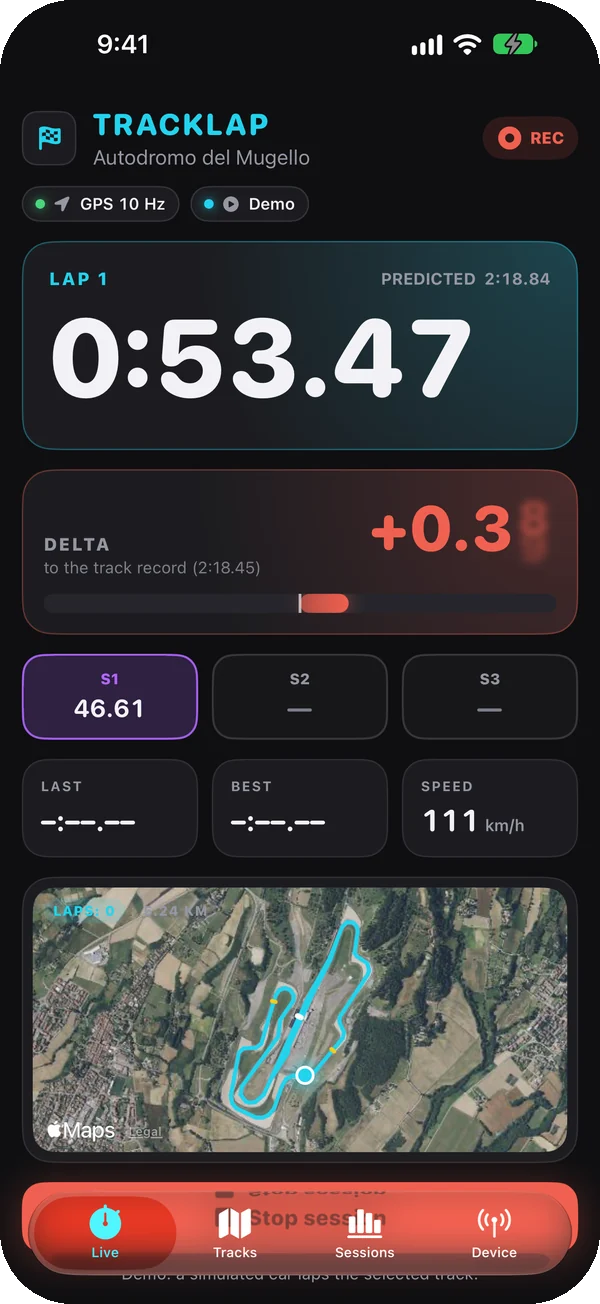
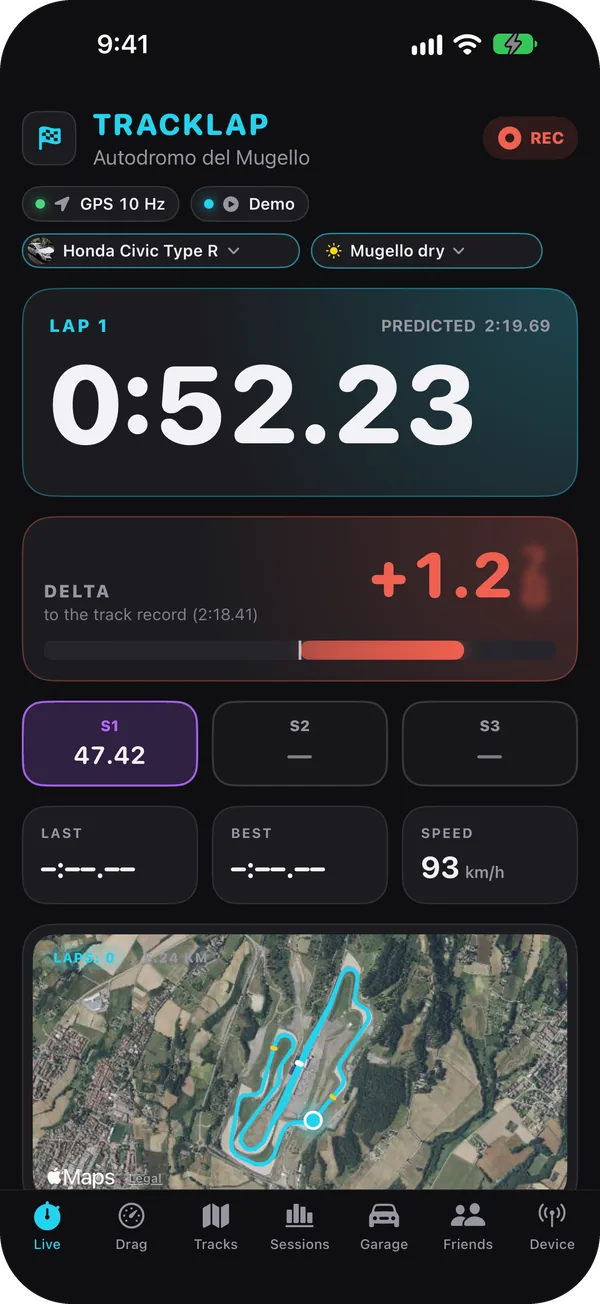
README: motorcycles and scooters, shared sessions, notifications, Lite and Android; every screenshot anew

diff --git a/tools/readme-shots.py b/tools/readme-shots.py
@@ -1,0 +1,50 @@
+"""The README's screenshots from the ones the Screenshots workflow makes.
+
+    python tools/readme-shots.py <folder with the workflow's shots>
+
+Each one goes to docs/readme as a 600 px wide WebP with the corners of the phone's screen rounded
+off, under the name the READMEs use.
+"""
+import sys
+from pathlib import Path
+
+from PIL import Image, ImageDraw
+
+WIDTH = 600
+RADIUS = 72
+# The workflow's name -> the README's.
+NAMES = {
+    "live": "live", "session": "session", "analysis": "analysis", "editor": "editor",
+    "challenge": "challenge", "group": "group", "share": "share",
+    "drag": "drag", "dragRun": "drag-run",
+    "garage": "garage", "car": "car", "setup": "setup",
+    "livemotorcycle": "moto-live", "leanmotorcycle": "moto-lean",
+}
+
+
+def convert(src: Path, dst: Path) -> None:
+    im = Image.open(src).convert("RGB")
+    im = im.resize((WIDTH, round(im.height * WIDTH / im.width)), Image.LANCZOS)
+    # The mask four times as big, then down: smooth corners.
+    big = Image.new("L", (im.width * 4, im.height * 4), 0)
+    ImageDraw.Draw(big).rounded_rectangle((0, 0, big.width - 1, big.height - 1), RADIUS * 4, fill=255)
+    im.putalpha(big.resize(im.size, Image.LANCZOS))
+    im.save(dst, "WEBP", quality=82, method=6)
+
+
+def main() -> None:
+    shots = Path(sys.argv[1])
+    out = Path(__file__).resolve().parent.parent / "docs" / "readme"
+    for lang in ("it", "en"):
+        for theirs, ours in NAMES.items():
+            src = shots / f"{lang}-{theirs}.png"
+            if not src.exists():
+                print("missing", src.name)
+                continue
+            dst = out / f"{lang}-{ours}.webp"
+            convert(src, dst)
+            print(dst.name, dst.stat().st_size // 1024, "KB")
+
+
+if __name__ == "__main__":
+    main()

diff --git a/README.en.md b/README.en.md
@@ -83,6 +83,11 @@ In Italian, English, Spanish, French, German and Portuguese, following the iPhon
 - **Online leaderboards**: with *Publish my best laps* on, the best lap of every session goes to the
   leaderboard of its track, recognised by the start line; the ESP32 (10 Hz) and the iPhone (1 Hz)
   have separate boards, and Demo laps never go in.
+- **Shared sessions**: in Sessions, *Sharing* shows your sessions to everyone, to friends only or
+  to nobody, apart from who sees the garage. They see the track, the day, the vehicle and every lap
+  time; never traces or positions.
+- **Notifications**: you get one when a friend accepts your invitation, and when a friend improves
+  their record on a track, once at the end of their session, saying so if they passed you.
 
 <table>
   <tr>
@@ -168,6 +173,35 @@ and leaderboard time remembers the car it was set with.
 
 <sub>Car photos from Wikimedia Commons, CC0: [list](screenshots/garage/CREDITS.md).</sub>
 
+## Motorcycles and scooters
+
+A vehicle in the garage is a car, a motorcycle or a scooter; without a garage you pick it in
+Device, under *What you ride or drive*. On two wheels TrackLap shows the **lean angle**:
+
+- In **Live** a dial with the lean now, the side it is on, and the furthest lean to the left and to
+  the right in the session.
+- In the **analysis** a chart of the lean along the lap with the reference lap, the lean at the
+  cursor, the furthest to each side and that of every lap.
+- A **setup** has spring preload, sag and gearing instead of camber, toe, anti-roll bars and wings.
+- Leaderboards and friends' laps say what kind of vehicle set the time.
+
+The lean is worked out from the GPS, from the speed and how fast the heading turns, also with the
+boards that have an accelerometer: that one leans with the bike and feels no lateral g in a corner.
+It is the theoretical angle, without the width of the tyres and the rider moving on the bike.
+
+<table>
+  <tr>
+    <td width="33%"><img src="docs/readme/en-moto-live.webp" alt="Live on a motorcycle, with the lean dial"></td>
+    <td width="33%"><img src="docs/readme/en-moto-lean.webp" alt="The chart of the lean along a lap"></td>
+    <td></td>
+  </tr>
+  <tr>
+    <td align="center"><sub>Live on two wheels</sub></td>
+    <td align="center"><sub>The lean along the lap</sub></td>
+    <td></td>
+  </tr>
+</table>
+
 ## The hardware
 
 <p align="center">
@@ -196,6 +230,13 @@ lap, green when faster than the session's average, red when slower.
   [Feather](https://github.com/khcrysalis/Feather) and install TrackLap, or download
   `TrackLap-<version>-unsigned.ipa` from the [releases](https://github.com/TheBlackSide243/TrackLap/releases)
   and install it with Sideloadly or AltStore. To try it without hardware, pick **Demo** in Device.
+- **TrackLap Lite**: the free app of its own, with the timer, Drag, the tracks, the sessions and
+  Device, all on the phone and without an account. Friends, the online leaderboards, live groups
+  and the garage are in the full app. It is in the same Feather source and in the same releases
+  (`TrackLap-Lite-<version>-unsigned.ipa`), and installs next to TrackLap.
+- **Android**: `TrackLap-<version>.apk` and `TrackLap-Lite-<version>.apk` are in the
+  *TrackLap for Android* pre-releases among the [releases](https://github.com/TheBlackSide243/TrackLap/releases)
+  (Android 8 or later).
 - **ESP32**: open [esp32.tbsgaming.win](https://esp32.tbsgaming.win) in Chrome, Edge or Brave on a
   computer, plug the board in over USB and press Install. Then in the app: Device → ESP32.
 

diff --git a/README.md b/README.md
@@ -83,6 +83,11 @@ In italiano, inglese, spagnolo, francese, tedesco e portoghese, con la lingua de
 - **Classifiche online**: chi attiva *Pubblica i miei best* manda il giro migliore di ogni sessione
   alla classifica della sua pista, riconosciuta dalla linea del via; ESP32 (10 Hz) e iPhone (1 Hz)
   hanno classifiche separate, i giri della Demo non entrano mai.
+- **Sessioni condivise**: in Sessioni, *Condivisione* mostra le tue sessioni a tutti, solo agli
+  amici o a nessuno, a parte da chi vede il garage. Si vedono pista, giorno, veicolo e il tempo di
+  ogni giro; mai tracciati o posizioni.
+- **Notifiche**: ti arriva una notifica quando un amico accetta il tuo invito e quando migliora il
+  suo record su una pista, una sola a fine sessione, che dice se ti ha superato.
 
 <table>
   <tr>
@@ -169,6 +174,35 @@ classifica si ricorda con quale auto l'hai fatto.
 
 <sub>Foto delle auto da Wikimedia Commons, CC0: [elenco](screenshots/garage/CREDITS.md).</sub>
 
+## Moto e scooter
+
+Un veicolo del garage è un'auto, una moto o uno scooter; senza garage lo scegli in Dispositivo, in
+*Con cosa giri*. Su due ruote TrackLap mostra la **piega**:
+
+- In **Live** un indicatore con la piega di adesso, il lato, e la piega massima a sinistra e a
+  destra nella sessione.
+- Nell'**analisi** il grafico della piega lungo il giro insieme al giro di riferimento, la piega
+  nel punto del cursore, la massima per lato e quella di ogni giro.
+- L'**assetto** ha precarico, sag e rapporto al posto di campanatura, convergenza, barre e ala.
+- Classifiche e giri degli amici dicono con che tipo di veicolo è stato fatto il tempo.
+
+La piega è calcolata dal GPS, dalla velocità e da quanto in fretta gira la direzione, anche con le
+schede che hanno l'accelerometro: quello si inclina con la moto e in curva non sente g laterali. È
+l'angolo teorico, senza la larghezza delle gomme e lo spostamento del pilota.
+
+<table>
+  <tr>
+    <td width="33%"><img src="docs/readme/it-moto-live.webp" alt="Live su una moto, con l'indicatore di piega"></td>
+    <td width="33%"><img src="docs/readme/it-moto-lean.webp" alt="Il grafico della piega lungo un giro"></td>
+    <td></td>
+  </tr>
+  <tr>
+    <td align="center"><sub>Live su due ruote</sub></td>
+    <td align="center"><sub>La piega lungo il giro</sub></td>
+    <td></td>
+  </tr>
+</table>
+
 ## L'hardware
 
 <p align="center">
@@ -197,6 +231,13 @@ migliore, verde se è più veloce della media della sessione, rosso se è più l
   TrackLap, oppure scarica `TrackLap-<versione>-unsigned.ipa` dalle
   [release](https://github.com/TheBlackSide243/TrackLap/releases) e installalo con Sideloadly o
   AltStore. Per provarlo senza hardware scegli **Demo** in Dispositivo.
+- **TrackLap Lite**: l'app gratuita a parte, con cronometro, Drag, piste, sessioni e Dispositivo,
+  tutto sul telefono e senza account. Amici, classifiche online, gruppi live e garage sono
+  nell'app completa. È nella stessa sorgente di Feather e nelle stesse release
+  (`TrackLap-Lite-<versione>-unsigned.ipa`), e si installa accanto a TrackLap.
+- **Android**: `TrackLap-<versione>.apk` e `TrackLap-Lite-<versione>.apk` sono nelle pre-release
+  *TrackLap for Android* delle [release](https://github.com/TheBlackSide243/TrackLap/releases)
+  (Android 8 o successivo).
 - **ESP32**: apri [esp32.tbsgaming.win](https://esp32.tbsgaming.win) da Chrome, Edge o Brave sul
   computer, collega la scheda via USB e premi Installa. Poi nell'app: Dispositivo → ESP32.
 
